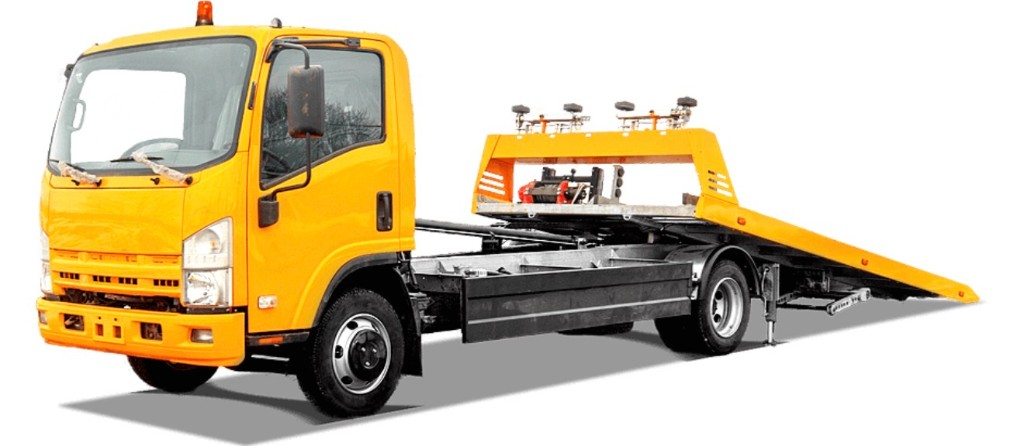
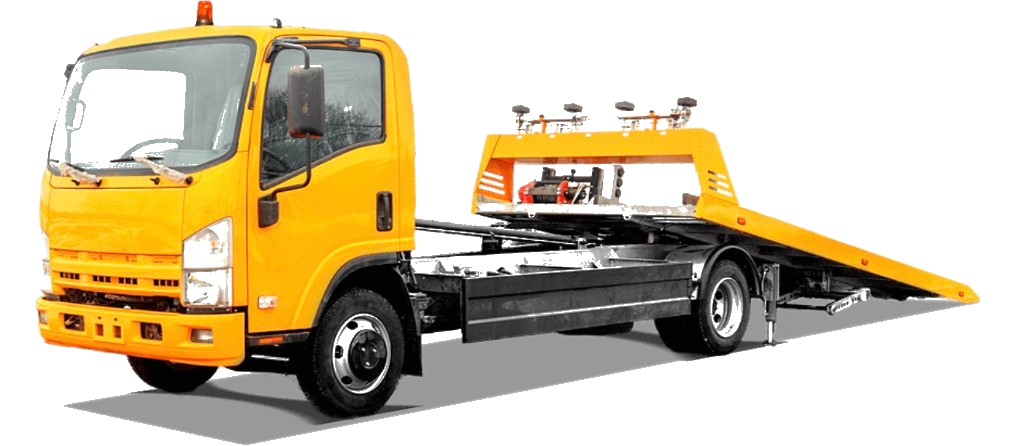
Hero: fix narrow text column (stretch flex), show truck on mobile, transparent truck PNG.
Column flex with align-items:center sized hero-copy to content width; use stretch plus full-width .hero-copy. Wider readable .hero-sub (36rem). Tow truck PNG: knock out white/light grey background with Pillow. Import script applies same CSS rules after pomoc pull.

Made-with: Cursor

diff --git a/web/index.html b/web/index.html
@@ -162,10 +162,11 @@ nav{background:var(--k);border-bottom:3px solid var(--y);position:sticky;top:0;z
 /* HERO */
 #hero{background:var(--k);padding:64px 16px 56px;position:relative;overflow:hidden;width:100%}
 .hero-bg{position:absolute;top:50%;left:50%;transform:translate(-50%,-50%);font-family:'Oswald',sans-serif;font-size:18vw;font-weight:700;color:rgba(255,200,0,.04);white-space:nowrap;pointer-events:none;user-select:none}
-.hero-inner{max-width:1100px;margin:0 auto;display:flex;flex-direction:column;align-items:center;text-align:center;gap:0;position:relative;z-index:2;width:100%}
+.hero-inner{max-width:1100px;margin:0 auto;display:flex;flex-direction:column;align-items:stretch;text-align:center;gap:0;position:relative;z-index:2;width:100%;min-width:0}
+.hero-copy{width:100%;max-width:100%;min-width:0;box-sizing:border-box}
 .hero-h1{font-family:'Oswald',sans-serif;font-size:clamp(2.2rem,6vw,4.2rem);font-weight:700;line-height:1.1;color:var(--y);text-transform:uppercase}
 .hero-h1 span{color:#fff}
-.hero-sub{font-size:.95rem;color:rgba(255,255,255,.72);margin:14px 0 22px;line-height:1.65;max-width:560px}
+.hero-sub{font-size:.95rem;color:rgba(255,255,255,.72);margin:14px auto 22px;line-height:1.65;max-width:min(100%,36rem);width:100%;box-sizing:border-box;hyphens:none;overflow-wrap:break-word}
 .badges{display:flex;flex-wrap:wrap;gap:8px;margin-bottom:26px;justify-content:center}
 .badge{background:var(--y);color:var(--k);font-family:'Oswald',sans-serif;font-size:.8rem;font-weight:600;letter-spacing:.07em;padding:5px 13px;border-radius:3px;text-transform:uppercase}
 .badge.ol{background:transparent;border:2px solid var(--y);color:var(--y)}
@@ -177,7 +178,7 @@ nav{background:var(--k);border-bottom:3px solid var(--y);position:sticky;top:0;z
 .big-phone-pill{position:fixed;bottom:28px;left:50%;transform:translateX(-50%);z-index:500;background:var(--y);color:var(--k);font-family:'Oswald',sans-serif;font-size:1.5rem;font-weight:700;padding:15px 40px;border-radius:60px;text-decoration:none;letter-spacing:.06em;white-space:nowrap;box-shadow:0 6px 32px rgba(255,215,0,.5),0 2px 8px rgba(0,0,0,.4);animation:bounce-pill 2s ease-in-out infinite}
 @keyframes bounce-pill{0%,100%{transform:translateX(-50%) translateY(0)}50%{transform:translateX(-50%) translateY(-10px)}}
 .hero-truck{animation:fl 3s ease-in-out infinite;line-height:0;display:flex;align-items:center;justify-content:center}
-.hero-truck-img{width:min(100%,420px);max-width:100%;height:auto;object-fit:contain;filter:drop-shadow(0 14px 32px rgba(0,0,0,.5))}
+.hero-truck-img{width:min(100%,420px);max-width:100%;height:auto;object-fit:contain;filter:drop-shadow(0 14px 32px rgba(0,0,0,.55));vertical-align:middle}
 @keyframes fl{0%,100%{transform:translateY(0)}50%{transform:translateY(-14px)}}
 
 /* SECTIONS */
@@ -250,7 +251,8 @@ footer{background:#0a0a0a;border-top:3px solid var(--y);padding:24px 16px;text-a
   .hamburger{ display:flex; }
   .topbar-inner{justify-content:center;text-align:center}
   .topbar-msg{text-align:center;flex:1 1 100%}
-  .hero-truck{ display:none; }
+  .hero-truck{ display:flex; margin-top:28px; justify-content:center; align-self:center; width:100%; }
+  .hero-truck-img{ width:min(100%,min(92vw,420px)); }
   .ph-num{ display:none; }
   .sgrid{ grid-template-columns:1fr; }
   .wgrid{ grid-template-columns:1fr 1fr; gap:10px; }
@@ -368,9 +370,9 @@ footer{background:#0a0a0a;border-top:3px solid var(--y);padding:24px 16px;text-a
   </ul>
   <div class="nav-actions">
     <div class="lang-sw">
-      <button type="button" class="lang-btn active" onclick="setLang('pl')"><span class="fl">🇵🇱</span>PL</button>
-      <button type="button" class="lang-btn" onclick="setLang('en')"><span class="fl">🇬🇧</span>EN</button>
-      <button type="button" class="lang-btn" onclick="setLang('ru')"><span class="fl">🇷🇺</span>RU</button>
+      <button class="lang-btn active" onclick="setLang('pl')"><span class="fl">🇵🇱</span>PL</button>
+      <button class="lang-btn" onclick="setLang('en')"><span class="fl">🇬🇧</span>EN</button>
+      <button class="lang-btn" onclick="setLang('ru')"><span class="fl">🇷🇺</span>RU</button>
     </div>
     <a href="tel:+48506001057" class="nav-phone" aria-label="Zadzwoń 506 001 057"><span class="nav-phone-icon" aria-hidden="true">📞</span><span class="nav-phone-text"><span class="nav-phone-tag">24/7</span><span class="ph-num">506-001-057</span></span></a>
     <div class="hamburger" id="hamburger" onclick="toggleMenu()"><span></span><span></span><span></span></div>
